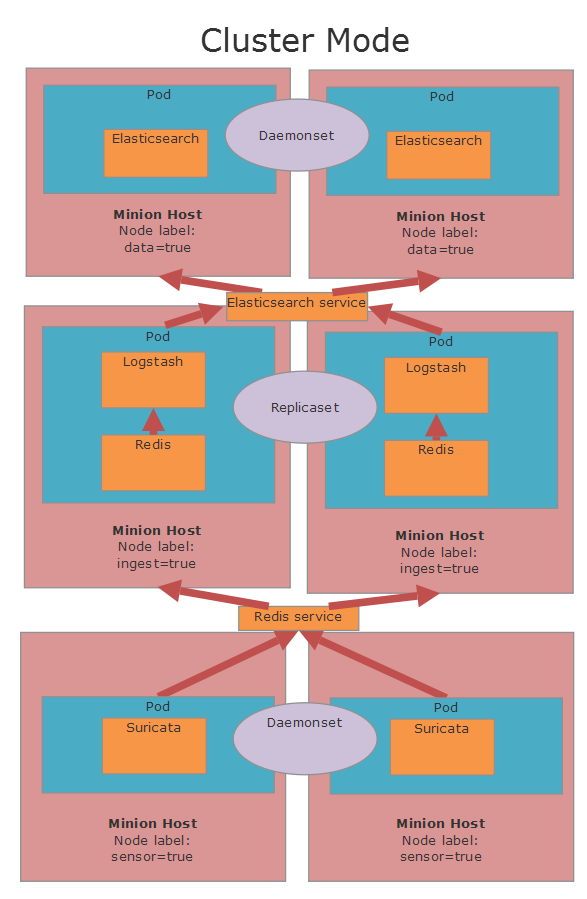
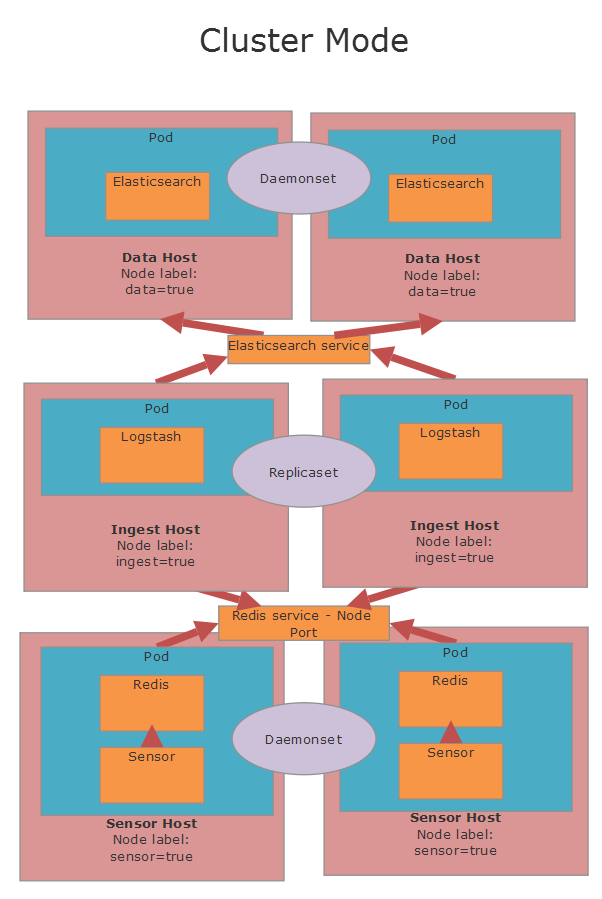
Added Documentation and changed up redis to go so that it goes with Redis so that this becomes a pull item.

diff --git a/docs/Suricata.md b/docs/Suricata.md
@@ -1,0 +1,32 @@
+# Suricata
+## Introduction
+Suricata is designed to be deployed a large number of hosts.  Suricata is defined as a Daemonset which means the tool will be deployed to all hosts with a specific node tag.  This tag by default is "sensor" but it may be desired to change this if users want to have multiple Suricata instances across the cluster with various options.  Suricata can be placed inline or in a passive only alert mode. Suricata has been designed to pass or detect layer-2 traffic only and will not modify traffic in any fashion. In the inline mode the container will have a total of three interfaces.  One will be connected to the overlay network and two will be used for passing the traffic in the inline mode.  Traffic will come in to one interface, be inspected and then passed out the other side.  In passive mode two interfaces will be used, one for listening to traffic and the other will be used for the overlay network.
+
+For log management this tool is able to be placed in standalone, cluster or external mode.  [See Deployment Options for details](Deployment_Options.md).  Logs will not be stored locally in Suricata and instead will be immediately sent to Redis where they can be ingested and processed by Logstash.  This design limits the writing to disks to sensors.  It is essential to monitor Redis to ensure this queue doesn't build faster than Logstash can process this information.
+
+Suricata rules are downloaded from emerging threats when the container is first initialized currently.  This will be changed in the future to allow better management of rules.
+
+##Usage
+View all available options to the user:
+```
+helm inspect edcop/suricata
+```
+ 
+Deploy in passive mode:
+```
+helm install --set inline=false --set net1=passive edcop/suricata
+```
+
+Deploy in standalone mode and specify an external Redis server:
+```
+helm install --set deploymentOptions.deployment=external --set deploymentOptions.externalOptions.externalHost=10.10.0.6 deploymentOptions.externalOptions.externalPort=6379 edcop/suricata
+```
+More advanced editing of variables can be done with the following commands:
+```
+helm inspect edcop/suricata > values.yaml
+
+#Edit the file as desired by the user
+
+helm install -f values.yaml edcop/suricata
+```
+

diff --git a/docs/Resource Management.md b/docs/Resource Management.md
@@ -1,0 +1,1 @@
+# Resource Management
